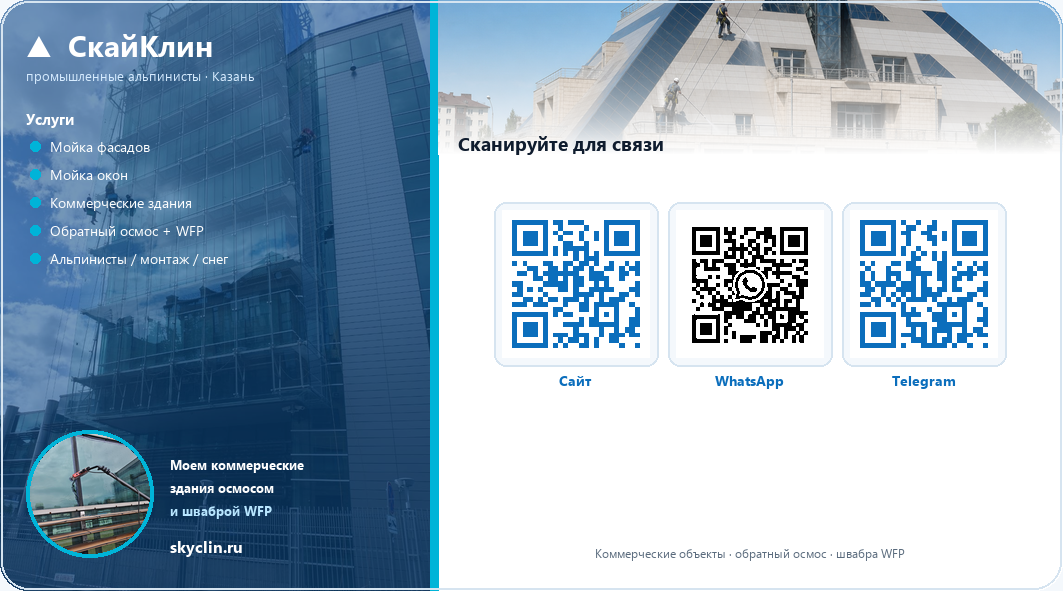
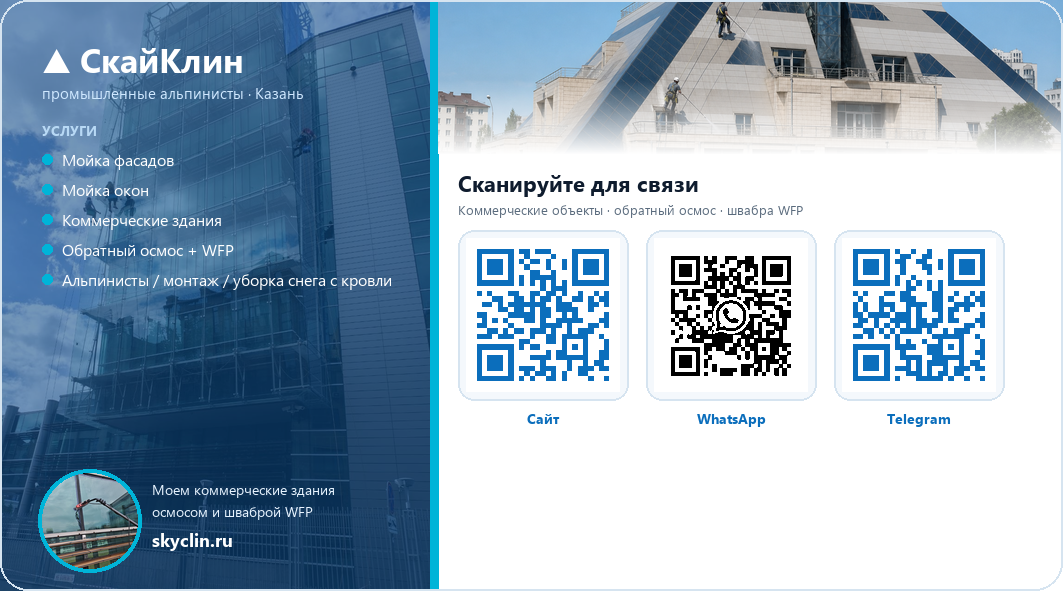
admin

diff --git a/vizitka.html b/vizitka.html
@@ -114,7 +114,7 @@
         <li>Мойка окон</li>
         <li>Коммерческие здания</li>
         <li>Обратный осмос + WFP</li>
-        <li>Альпинисты / монтаж / снег</li>
+        <li>Альпинисты / монтаж / уборка снега с кровли</li>
       </ul>
       <div class="foot">
         <img src="assets/card/photo-3.jpg" alt="">
